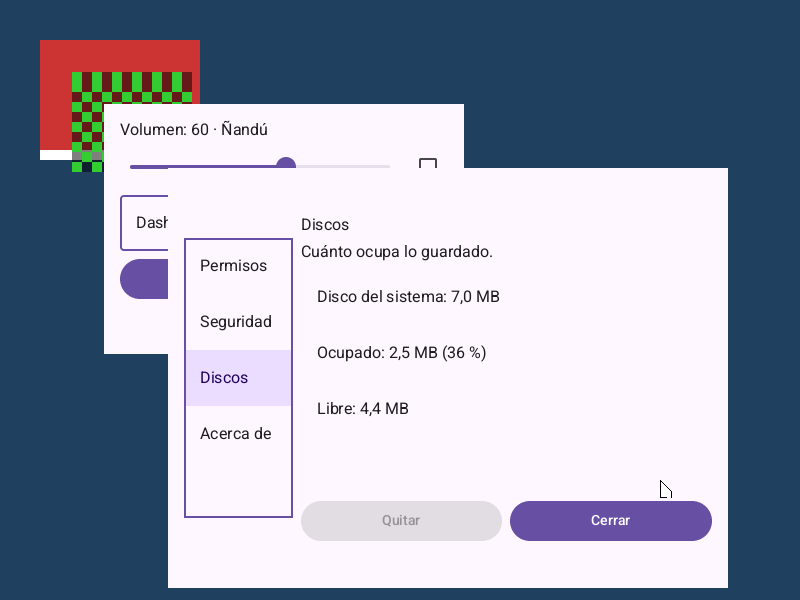
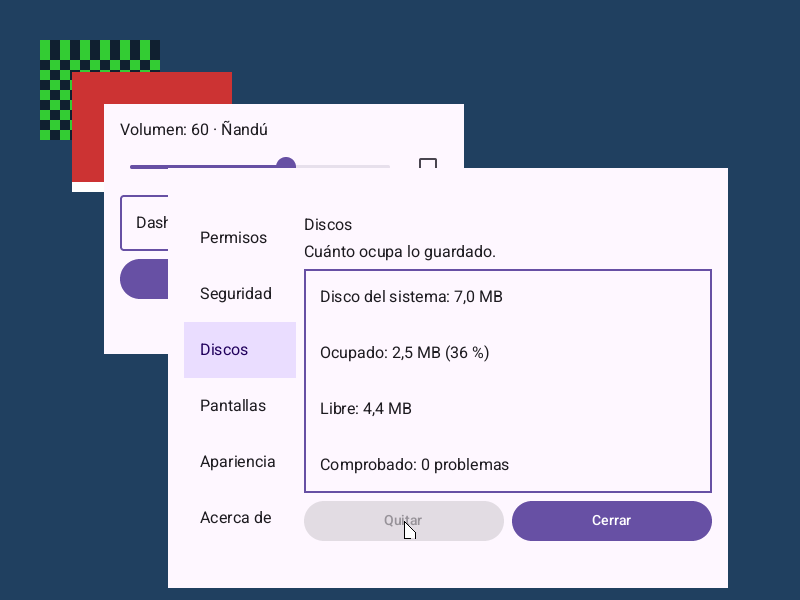
S10c: comprobar el disco desde el centro de control (acción de administrador)
guardian sigue atendiendo las acciones de administrador mientras el centro está abierto.
Prueba en virt: comprobado, 0 problemas.

Claude-Session: https://claude.ai/code/session_01LPg8XbNbvkSVM2uHgnL5tA

diff --git a/usuario/src/bin/centro.rs b/usuario/src/bin/centro.rs
@@ -228,7 +228,31 @@ fn discos() -> Vec<String> {
     if l.is_empty() {
         l.push(String::from("El servicio de archivos no contesta"));
     }
+    // La acción (con Intro o doble clic): la hace `archivos` si `guardian` da por buena una contraseña de administrador.
+    l.push(String::from(COMPROBAR));
     l
+}
+
+/// La última fila de Discos.
+const COMPROBAR: &str = "Comprobar el disco (pide administrador)";
+
+/// Comprobar el disco: la acción de administrador "comprobar" (U5) por `sesiones`, que se lo pregunta a `guardian`.
+/// El estado y cuántos problemas.
+fn comprobar_disco() -> (i32, u64) {
+    let accion = b"comprobar";
+    let mut p = [0u8; 12 + 9];
+    p[0..4].copy_from_slice(&s::ADMINISTRAR.to_le_bytes());
+    p[4..8].copy_from_slice(&(accion.len() as u32).to_le_bytes());
+    p[12..].copy_from_slice(accion);
+    let (lectura, suyo) = dashos::canal_crear();
+    let mut r = [0u8; 12];
+    // Hasta que el usuario conteste y se compruebe: 30 s.
+    let n = if dashos::canal_escribir(SESIONES, &p, &[suyo]) == 0 { dashos::canal_leer_plazo(lectura, &mut r, &mut [], 30_000_000).0 } else { -1 };
+    dashos::cerrar(lectura);
+    if n != 12 {
+        return (i32::MIN, 0);
+    }
+    (i32::from_le_bytes(r[0..4].try_into().unwrap()), u64::from_le_bytes(r[4..12].try_into().unwrap()))
 }
 
 /// Donde se proyecta la ventana de la sesión con `archivos` (la de Wayland va en `VA`).
@@ -723,6 +747,21 @@ fn ventana_dentro(categoria: usize) -> Option<()> {
                         // Y se relee, como al abrir la próxima vez.
                         let releida = leer_apariencia() == Ok((oscuro, color));
                         println!("  [centro] Apariencia: {}, color {}; guardada: {} ({} bytes); releída: {}", if oscuro { "oscuro" } else { "claro" }, COLORES[color].0, guardado, bytes, if releida { "sí" } else { "no" });
+                        cambio = true;
+                    }
+                }
+                Some("elegir") if cat == DISCOS => {
+                    i.arbol.poner(marca, atr::TEXTO, Valor::Texto(String::new()));
+                    let v = i.arbol.leer(permisos, atr::VALOR).map_or(-1, Valor::int);
+                    if usize::try_from(v).ok().and_then(|v| lineas_registro.get(v)).is_some_and(|l| l == COMPROBAR) {
+                        let (estado, problemas) = comprobar_disco();
+                        println!("  [centro] Comprobar el disco: {}, {} problemas", estado, problemas);
+                        let linea = if estado == 0 { alloc::format!("Comprobado: {} problemas", problemas) } else { alloc::format!("No se comprobó ({})", estado) };
+                        lineas_registro = discos();
+                        lineas_registro.insert(lineas_registro.len() - 1, linea);
+                        i.arbol.poner(permisos, atr::OPCIONES, Valor::Texto(lineas_registro.join("|")));
+                        i.arbol.poner(permisos, atr::VALOR, Valor::Int(-1));
+                        i.arbol.poner(permisos, atr::PRIMERA, Valor::Int(0));
                         cambio = true;
                     }
                 }

diff --git a/usuario/src/bin/guardian.rs b/usuario/src/bin/guardian.rs
@@ -161,7 +161,35 @@ fn principal() -> u64 {
     let (lectura, suyo) = dashos::canal_crear();
     let mandado = dashos::canal_escribir(CENTRO, b"abrir permisos", &[suyo]);
     let mut r4 = [0u8; 4];
-    let cerrado = mandado == 0 && dashos::canal_leer_plazo(lectura, &mut r4, &mut [], 60_000_000).0 == 4;
+    // Mientras está abierto, se siguen atendiendo las acciones de administrador (el centro comprueba el disco desde
+    // Discos): en la prueba, a "centro" se le da la contraseña de Ana, como a `pide`.
+    let mut cerrado = false;
+    let hasta = dashos::ahora_us() + 60_000_000;
+    while mandado == 0 && dashos::ahora_us() < hasta {
+        if dashos::canal_leer_plazo(lectura, &mut r4, &mut [], 200_000).0 == 4 {
+            cerrado = true;
+            break;
+        }
+        let mut q = [0u8; PREGUNTA];
+        if dashos::canal_leer_plazo(preguntas, &mut q, &mut [], 1_000).0 as usize != PREGUNTA {
+            continue;
+        }
+        let campo = |b: &[u8]| -> usize { b.iter().position(|&c| c == 0).unwrap_or(b.len()) };
+        let (programa, servicio) = (&q[8..8 + campo(&q[8..24])], &q[24..24 + campo(&q[24..40])]);
+        if programa == b"centro" && servicio.first() == Some(&b'*') {
+            let (usuario, clave): (&[u8], &[u8]) = (b"Ana", b"clave de Ana");
+            let mut r = [0u8; 64];
+            r[0..4].copy_from_slice(&RESPUESTA_ADMIN.to_le_bytes());
+            r[4..8].copy_from_slice(&q[0..4]);
+            r[8..12].copy_from_slice(&(usuario.len() as u32).to_le_bytes());
+            r[12..16].copy_from_slice(&(clave.len() as u32).to_le_bytes());
+            r[16..16 + usuario.len()].copy_from_slice(usuario);
+            r[16 + usuario.len()..16 + usuario.len() + clave.len()].copy_from_slice(clave);
+            pedir(&r[..16 + usuario.len() + clave.len()], &[]);
+            r.fill(0);
+            println!("  [guardian] centro pide {}: contesta como Ana", core::str::from_utf8(&servicio[1..]).unwrap_or("?"));
+        }
+    }
     dashos::cerrar(lectura);
     println!("  [guardian] pide al centro abrir Permisos: {}, y se cerró: {}", mandado, if cerrado { "sí" } else { "no" });
     let admin = admin_pide == 2 && admin_hostil == 3;

diff --git a/docs/REVISION_LOOP.md b/docs/REVISION_LOOP.md
@@ -969,3 +969,11 @@ K6 (ida y vuelta con paso directo) espera a medir en la Pi real (B5).
   (`ACENTOS`) en claro y oscuro, calculada en el PC con `desde_color`; `Tema::del_sistema` la usa (y calcula los demás
   colores). La prueba `tabla_igual_que_el_calculo` la compara con el cálculo (si `desde_color` cambia, falla y la tabla
   se rehace). El centro toma los acentos del kit. Medido en Ajustes, cambiar al azul oscuro: de 331.914 µs a 68 µs.
+- S10c, C1 completo: en Discos, "Comprobar el disco (pide administrador)". Con Intro o doble clic el centro pide a
+  `sesiones` la acción de administrador "comprobar" (U5); `sesiones` se la pregunta a `guardian`, que pide la
+  contraseña de un administrador, y la hace `archivos`. El centro enseña "Comprobado: N problemas". Lo que lo impedía
+  en la prueba: `guardian` esperaba, bloqueado, a que se cerrara el centro; ahora, mientras espera, sigue atendiendo
+  las acciones de administrador (en la prueba, a "centro" le contesta como Ana, como a `pide`). Prueba en virt: Tab,
+  Fin e Intro; "centro pide comprobar: contesta como Ana" y "Comprobar el disco: 0, 0 problemas". Las negativas
+  (contraseña mala, de quien no es administradora) ya las prueba el hostil por la misma acción. Captura nueva en
+  `docs/capturas/s10c-centro-discos.png`.
